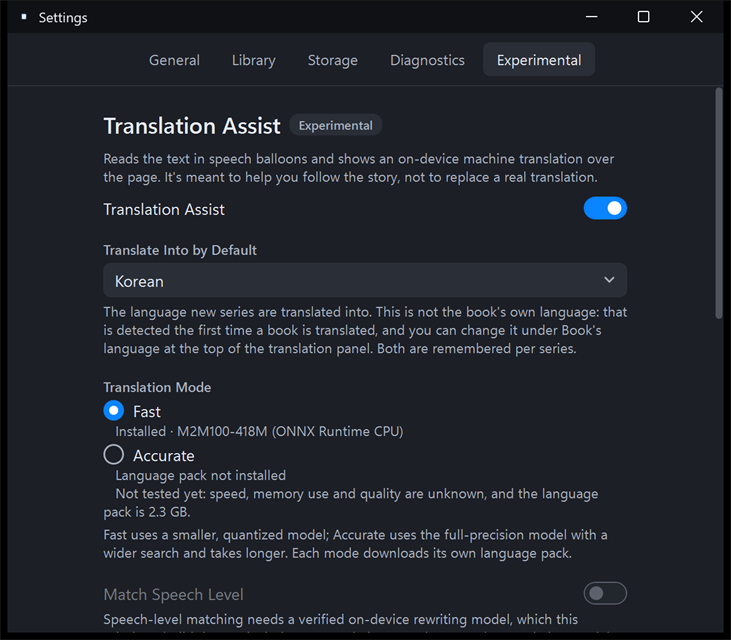
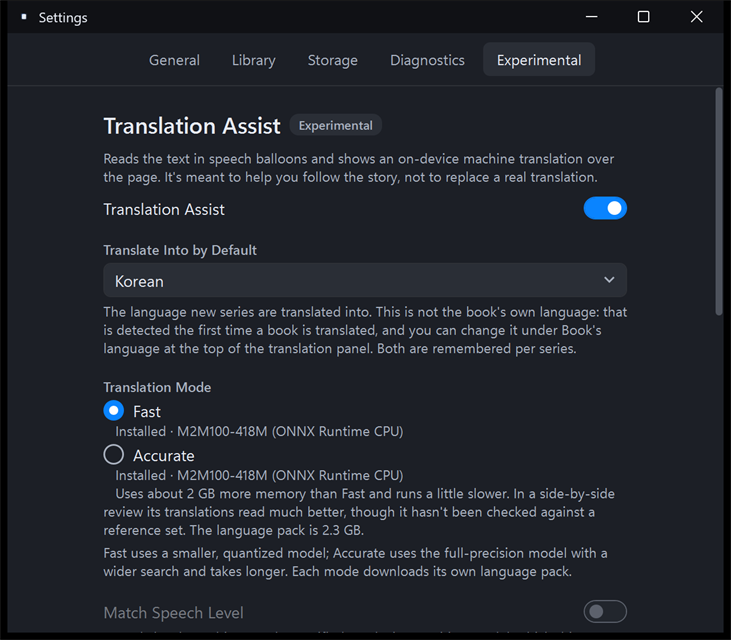
버그 패치 및 성능 측정결과 수정

Changed region(s): [[0.1204, 0.7188, 0.8427, 1.0], [0.5718, 0.9062, 0.8728, 1.0]]

diff --git a/src/Panely.Core/Translation/ModelStore.cs b/src/Panely.Core/Translation/ModelStore.cs
@@ -87,6 +87,7 @@ public sealed class ModelStore
             using var http = _httpFactory();
             long done = 0;
             var total = m.TotalBytes;
+            var reportedPercent = 0;
             foreach (var f in m.Files)
             {
                 cancellationToken.ThrowIfCancellationRequested();
@@ -110,6 +111,13 @@ public sealed class ModelStore
                         if (fileBytes > f.Bytes) throw new InvalidDataException(Loc.T("%@ is larger than its manifest says.", f.Name));
                         progress?.Report(new InstallProgress(done, total, f.Name));
                         lock (_gate) _downloading[id] = total > 0 ? done / (double)total : 0;
+                        // 설정·번역 패널이 진행률을 따라 다시 그리도록 1%가 바뀔 때마다 알린다(팩 하나에 최대 100번)
+                        var percent = total > 0 ? (int)(done * 100 / total) : 0;
+                        if (percent != reportedPercent)
+                        {
+                            reportedPercent = percent;
+                            Changed?.Invoke(this, EventArgs.Empty);
+                        }
                     }
                     await output.FlushAsync(cancellationToken).ConfigureAwait(false);
                     var hash = Convert.ToHexString(sha.GetHashAndReset());
@@ -173,25 +181,22 @@ public sealed class LanguagePackManager : ILanguagePackProvider
     {
         if (source == target || !TranslationLanguages.IsSupported(source) || !TranslationLanguages.IsSupported(target))
             return Capability.Unavailable(Loc.T("This language pair isn't supported"));
+        // 필요한 팩 중 받는 중인 것이 있으면 먼저 알린다. 번역·탐지 팩은 글자 인식 팩보다 먼저 받으므로
+        // 글자 인식 상태부터 보면 그동안 패널이 다운로드 중으로 보이지 않는다.
+        foreach (var id in RequiredPacks(source, mode))
+            if (_store.DownloadProgress(id) is { } p) return new Capability(CapabilityStatus.Downloading, null, p);
         var ocr = _recognizer.GetCapability(source);
         // 글자 인식 팩이 없으면(다운로드 필요·불가) 번역 모델이 있어도 바로 실행할 수 없다
         if (!ocr.IsReady) return ocr;
-        var pack = TranslatorPackFor(mode);
-        if (_store.DownloadProgress(pack) is { } p) return new Capability(CapabilityStatus.Downloading, null, p);
         return _translator.GetCapability(source, target, mode);
     }
 
     public IReadOnlyList<string> MissingPacks(string source, string target, TranslationMode mode)
-    {
-        var missing = new List<string>();
-        var pack = TranslatorPackFor(mode);
-        if (_store.Find(pack) is { } m && m.IsVerified && !_store.IsInstalled(m)) missing.Add(pack);
-        if (_store.Find(ModelCatalog.DetectorId) is { } d && d.IsVerified && !_store.IsInstalled(d)) missing.Add(ModelCatalog.DetectorId);
-        // 만화 OCR 팩(일본어 manga-ocr + PP-OCR, 그 외 PP-OCR). PP-OCR은 언어 감지에도 쓴다.
-        foreach (var id in ModelTextRecognizer.PacksFor(source))
-            if (_store.Find(id) is { } o && o.IsVerified && !_store.IsInstalled(o) && !missing.Contains(id)) missing.Add(id);
-        return missing;
-    }
+        => RequiredPacks(source, mode).Where(id => _store.Find(id) is { IsVerified: true } m && !_store.IsInstalled(m)).ToList();
+
+    /// <summary>번역 모델, 말풍선 탐지, 만화 OCR 팩(일본어 manga-ocr + PP-OCR, 그 외 PP-OCR) 순. PP-OCR은 언어 감지에도 쓴다.</summary>
+    private static IEnumerable<string> RequiredPacks(string source, TranslationMode mode)
+        => new[] { TranslatorPackFor(mode), ModelCatalog.DetectorId }.Concat(ModelTextRecognizer.PacksFor(source)).Distinct();
 
     public Task InstallAsync(string packId, IProgress<InstallProgress>? progress, CancellationToken cancellationToken)
         => _store.InstallAsync(packId, progress, cancellationToken);

diff --git a/tests/Panely.Tests/Translation/TranslationCoreTests.cs b/tests/Panely.Tests/Translation/TranslationCoreTests.cs
@@ -192,6 +192,63 @@ public class ModelManifestTests
         Assert.Equal("source not pinned", m.VerificationProblem());
     }
 
+    private static ModelManifest PackManifest(string id, byte[] payload) => new()
+    {
+        Id = id,
+        Revision = "abc123",
+        License = "MIT",
+        Source = "https://example.invalid/pinned/abc123",
+        Mode = "detector",
+        Files = [new ModelFile { Name = "model.onnx", Bytes = payload.Length, Sha256 = Convert.ToHexString(System.Security.Cryptography.SHA256.HashData(payload)) }],
+    };
+
+    [Fact]
+    public async Task DownloadRaisesChangedAsProgressMoves()
+    {
+        using var dir = new TempDir();
+        var payload = new byte[1 << 20];
+        new Random(7).NextBytes(payload);
+        var store = new ModelStore(dir.Path, () => new HttpClient(new StubHandler(payload)), [PackManifest("test-model", payload)]);
+        var seen = new List<double?>();
+        store.Changed += (_, _) => { lock (seen) seen.Add(store.DownloadProgress("test-model")); };
+
+        await store.InstallAsync("test-model", null, CancellationToken.None);
+
+        // 시작·끝 말고도 받는 도중에 알려야 화면의 퍼센트가 움직인다
+        Assert.Contains(seen, p => p is > 0 and < 1);
+        Assert.True(seen.Count <= 102, $"알림이 너무 잦습니다({seen.Count}).");
+        Assert.True(store.IsInstalled("test-model"));
+    }
+
+    [Fact]
+    public async Task PackCapabilityShowsDownloadWhileTranslatorPackDownloadsBeforeTextRecognition()
+    {
+        using var dir = new TempDir();
+        var payload = "translator"u8.ToArray();
+        var release = new TaskCompletionSource();
+        var store = new ModelStore(dir.Path, () => new HttpClient(new GatedHandler(payload, release.Task)), [PackManifest(ModelCatalog.TranslatorFastId, payload)]);
+        // 글자 인식 팩이 아직 없는 상태
+        var recognizer = new FakeRecognizer();
+        recognizer.Languages.Clear();
+        var packs = new LanguagePackManager(store, recognizer, new PseudoTranslator { Delay = TimeSpan.Zero });
+
+        var install = store.InstallAsync(ModelCatalog.TranslatorFastId, null, CancellationToken.None);
+        Assert.Equal(CapabilityStatus.Downloading, packs.GetCapability("en", "ko", TranslationMode.Fast).Status);
+
+        release.SetResult();
+        await install;
+        Assert.NotEqual(CapabilityStatus.Downloading, packs.GetCapability("en", "ko", TranslationMode.Fast).Status);
+    }
+
+    private sealed class GatedHandler(byte[] payload, Task gate) : HttpMessageHandler
+    {
+        protected override async Task<HttpResponseMessage> SendAsync(HttpRequestMessage request, CancellationToken cancellationToken)
+        {
+            await gate.ConfigureAwait(false);
+            return new HttpResponseMessage(System.Net.HttpStatusCode.OK) { Content = new ByteArrayContent(payload) };
+        }
+    }
+
     private sealed class StubHandler(byte[] payload) : HttpMessageHandler
     {
         protected override Task<HttpResponseMessage> SendAsync(HttpRequestMessage request, CancellationToken cancellationToken)

diff --git a/src/Panely.App/Translation/ExperimentalSettingsView.cs b/src/Panely.App/Translation/ExperimentalSettingsView.cs
@@ -81,9 +81,9 @@ internal sealed class ExperimentalSettingsView : UserControl
             var label = mode == TranslationMode.Fast ? Loc.T("Fast") : Loc.T("Accurate");
             _root.Children.Add(Gap(Ui.Radio(label, "tr-mode", settings.TranslationMode == mode, () => state.UpdateSettings(s => s.TranslationMode = mode)), 4));
             _root.Children.Add(Ui.Caption("   " + ModeCapability(mode)));
-            // Accurate(fp32)는 manifest 해시만 고정했고 내려받아 실행해 본 적이 없다(ModelManifest validation)
+            // Accurate(fp32) 실측: 메모리 약 2GB 더, 조금 느림. 나란히 비교한 평가로는 훨씬 나음(골든 세트 미검수)(ModelManifest validation, IMPLEMENTATION-STATUS)
             if (mode == TranslationMode.Accurate)
-                _root.Children.Add(Ui.Caption("   " + Loc.T("Not tested yet: speed, memory use and quality are unknown, and the language pack is 2.3 GB.")));
+                _root.Children.Add(Ui.Caption("   " + Loc.T("Uses about 2 GB more memory than Fast and runs a little slower. In a side-by-side review its translations read much better, though it hasn't been checked against a reference set. The language pack is 2.3 GB.")));
         }
         _root.Children.Add(Gap(Ui.Caption(Loc.T("Fast uses a smaller, quantized model; Accurate uses the full-precision model with a wider search and takes longer. Each mode downloads its own language pack.")), 4));
 

diff --git a/src/Panely.Core/Translation/ModelManifest.cs b/src/Panely.Core/Translation/ModelManifest.cs
@@ -137,7 +137,7 @@ public static class ModelCatalog
           ],
           "license": "MIT (facebook/m2m100_418M weights). The Xenova ONNX conversion repo states no separate license; Panely does not redistribute the files, the user downloads them from the pinned source.",
           "source": "https://huggingface.co/Xenova/m2m100_418M/resolve/9c374f0b7aca709787cea97b047bfbbd1559d177",
-          "validation": "sha256 pinned from the Hub LFS objects only. This fp32 variant has not been downloaded or run; speed, memory and quality are unverified.",
+          "validation": "sha256 pinned from the Hub LFS objects; downloaded in the app and checksum-verified on 2026-10-20. Translated a 298-page Japanese webtoon (146 balloons) ja→ko on CPU: end to end about 7 s slower than Fast and about 2.2 GB more peak memory. In the developer's side-by-side review its translations were clearly better than Fast (one reviewer, not a golden set).",
           "languages": ["ja", "zh-Hans", "zh-Hant", "ko", "en"],
           "mode": "translator-accurate",
           "input": {"encoder": "encoder_model.onnx", "decoder": "decoder_model_merged.onnx", "tokenizer": "sentencepiece.bpe.model", "vocab": "vocab.json"},

diff --git a/docs/releases/v1.0.1.md b/docs/releases/v1.0.1.md
@@ -1,0 +1,95 @@
+Patch release for Panely for Windows 1.0. It fixes language pack download progress, records measurements for the Accurate translation mode, and adds a user guide.
+
+**English** · [한국어](#한국어)
+
+## Download
+
+| File | For |
+|---|---|
+| `Panely-1.0.1-win-x64.zip` | Most Windows PCs (Intel and AMD) |
+| `Panely-1.0.1-win-arm64.zip` | Windows on ARM. **Not run on an ARM device yet** — please report what you see |
+
+Extract the ZIP to a folder and run `Panely.exe`. No installer, administrator rights or .NET install are needed. Checksums are in `SHA256SUMS.txt`.
+
+**Updating from 1.0.0**: close Panely and replace the folder's contents with this ZIP. Your library, reading positions, edits and language packs are kept.
+
+The app isn't code-signed, so SmartScreen may say "Windows protected your PC" on first launch: choose **More info › Run anyway**.
+
+## Fixed
+
+- **Language pack download progress now updates as it downloads.** In **Settings › Experimental**, the percentage only changed when you switched tabs and came back.
+- **The translation panel shows the download while every pack downloads.** On a first install, the panel looked idle while the translation and balloon-detection packs downloaded (about 770 MB), and showed the download button again.
+
+## Changed
+
+- **Accurate translation mode has been measured.** On a 298-page Japanese webtoon with 146 balloons, it took about 7 seconds longer than Fast for the whole book and used about 2 GB more memory at peak (5.8 GB vs 3.5 GB). In a side-by-side review its translations read much better than Fast. That review is one person's judgment, not a check against a reference set.
+- The Accurate note in **Settings › Experimental** now says this instead of "Not tested yet", and gives the pack size the app shows (2.3 GB).
+- The in-app download was run end to end with the Accurate pack (2.3 GB), including the checksum check.
+
+## New
+
+- **User guide** in English and Korean: [docs/manual.md](https://github.com/sejoung/PanelyWindows/blob/main/docs/manual.md) · [docs/manual.ko.md](https://github.com/sejoung/PanelyWindows/blob/main/docs/manual.ko.md). It covers installing, reading, translation, editing and exporting, settings, shortcuts and troubleshooting. The README links to it.
+- The README links to [Panely for macOS](https://github.com/sejoung/Panely).
+
+## For developers
+
+- Korean output from `dotnet` (build, test and verify logs) is no longer garbled when you run `build.cmd`, `verify.cmd`, `release.cmd`, `install-local.cmd` or `uninstall-local.cmd` in a Korean console.
+- `tools/manual-screenshots.ps1` regenerates the user guide's screenshots from a synthetic demo comic.
+
+## Known limitations
+
+- Translation is experimental. The small M2M100 model often gets short lines and idioms wrong, and quality hasn't been checked against a golden set.
+- Accurate mode needs about 2 GB more memory than Fast. If memory is tight, use Fast.
+- "Match Speech Level" isn't available on Windows yet.
+- In the AI chat window, the prompt shows a balloon count of 0 until you click **Save as Text File…**. Save the file first, then copy the prompt.
+- Not tested yet: Windows on ARM, 125/150% and mixed-DPI setups, high-contrast mode.
+- Translation jobs in progress are lost when you quit (finished pages are kept).
+
+---
+
+## 한국어
+
+Panely Windows 1.0의 패치 릴리스입니다. 언어팩 다운로드 진행률 표시를 고치고, **정확하게** 번역 방식의 측정 결과를 반영했으며, 사용 설명서를 추가했습니다.
+
+### 내려받기
+
+| 파일 | 대상 |
+|---|---|
+| `Panely-1.0.1-win-x64.zip` | 대부분의 Windows PC(Intel·AMD) |
+| `Panely-1.0.1-win-arm64.zip` | ARM 기반 Windows. **실제 ARM 기기에서는 아직 실행해 보지 않았습니다.** 실행 결과를 알려 주세요 |
+
+ZIP을 폴더에 풀고 `Panely.exe`를 실행합니다. 설치 프로그램, 관리자 권한, .NET 설치가 필요 없습니다. 체크섬은 `SHA256SUMS.txt`에 있습니다.
+
+**1.0.0에서 업데이트**: Panely를 닫고 폴더 내용을 이 ZIP으로 바꿉니다. 라이브러리, 읽던 위치, 고친 번역, 언어팩은 그대로 남습니다.
+
+코드 서명이 없어 처음 실행할 때 SmartScreen이 "Windows의 PC 보호" 창을 띄울 수 있습니다. **추가 정보 › 실행**을 누르세요.
+
+### 고친 것
+
+- **언어팩 다운로드 진행률이 받는 동안 바로 갱신됩니다.** 전에는 **설정 › 실험적 기능**에서 다른 탭에 갔다 와야 퍼센트가 바뀌었습니다.
+- **번역 패널이 모든 언어팩을 받는 동안 다운로드 중으로 표시됩니다.** 전에는 처음 설치할 때 번역·말풍선 탐지 팩(약 770MB)을 받는 동안 패널이 멈춘 것처럼 보이고, 다운로드 버튼이 다시 나타났습니다.
+
+### 바뀐 것
+
+- **정확하게 번역 방식을 측정했습니다.** 말풍선 146개인 298쪽 일본어 웹툰 기준, 책 전체가 **빠르게**보다 약 7초 더 걸렸고 최대 메모리를 약 2GB 더 썼습니다(5.8GB 대 3.5GB). 나란히 비교해 본 결과 번역은 **빠르게**보다 훨씬 나았습니다. 한 사람의 평가이며 기준 번역으로 검수한 결과는 아닙니다.
+- **설정 › 실험적 기능**의 **정확하게** 안내가 "아직 검증하지 않았습니다" 대신 위 내용을 알려 주고, 앱에 표시되는 언어팩 크기(2.3GB)로 맞췄습니다.
+- 앱 안에서 언어팩을 끝까지 내려받는 과정을 **정확하게** 팩(2.3GB)으로 체크섬 검증까지 확인했습니다.
+
+### 새로 생긴 것
+
+- **사용 설명서**(한국어·영어): [docs/manual.ko.md](https://github.com/sejoung/PanelyWindows/blob/main/docs/manual.ko.md) · [docs/manual.md](https://github.com/sejoung/PanelyWindows/blob/main/docs/manual.md). 설치, 읽기, 번역, 수정과 내보내기, 설정, 단축키, 문제 해결을 다룹니다. README에서 바로 갈 수 있습니다.
+- README에 [macOS용 Panely](https://github.com/sejoung/Panely) 링크를 추가했습니다.
+
+### 개발자용
+
+- 한국어 콘솔에서 `build.cmd`, `verify.cmd`, `release.cmd`, `install-local.cmd`, `uninstall-local.cmd`를 실행할 때 `dotnet` 출력(빌드·테스트·검증 로그)의 한글이 깨지지 않습니다.
+- `tools/manual-screenshots.ps1`로 합성 데모 만화에서 사용 설명서 스크린샷을 다시 만들 수 있습니다.
+
+### 알려진 제약
+
+- 번역은 실험 기능입니다. 작은 M2M100 모델이라 짧은 대사와 관용 표현을 자주 틀리며, 골든 세트로 품질을 검수하지 않았습니다.
+- **정확하게**는 **빠르게**보다 메모리를 약 2GB 더 씁니다. 메모리가 넉넉하지 않으면 **빠르게**를 쓰세요.
+- 말투 맞춤은 Windows에서 아직 쓸 수 없습니다.
+- AI 채팅 창의 안내문은 **텍스트 파일로 저장…**을 누르기 전에는 말풍선 수를 0으로 표시합니다. 파일을 먼저 저장한 뒤 안내문을 복사하세요.
+- 아직 확인하지 않은 환경: ARM 기반 Windows, 125/150% 및 혼합 DPI, 고대비 모드.
+- 진행 중인 번역 작업은 앱을 종료하면 사라집니다(완료한 쪽은 남습니다).

diff --git a/docs/IMPLEMENTATION-STATUS.md b/docs/IMPLEMENTATION-STATUS.md
@@ -31,7 +31,7 @@
 | LIB-05 | 마지막 폴더 복원·잊기, 시리즈별 방향/레이아웃/맞춤/번역 설정 | T, R(복원) | — |
 | SET-01 | 설정 5개 탭(일반/라이브러리/저장 공간/진단/실험적 기능) | R | — |
 | DIAG-01 | 로그 수준, 768KiB→384KiB trim, 진단 ZIP(3파일), 경로 축약, 로그 삭제 | T | — |
-| TR-01 | 기본 꺼짐, 언어팩 manifest(revision·sha256 고정), 다운로드→체크섬→설치, Fast/Accurate | T, R | 앱 안 다운로드 UI로 실제 600MB+ 다운로드는 하지 않음(같은 파일을 직접 받아 설치 폴더에 두고 확인) |
+| TR-01 | 기본 꺼짐, 언어팩 manifest(revision·sha256 고정), 다운로드→체크섬→설치, Fast/Accurate | T, R | 2026-10-20 Accurate 팩(2.3GB)을 앱 안 다운로드 UI로 받아 체크섬 검증·설치까지 확인. 나머지 팩은 같은 파일을 직접 받아 설치 폴더에 두고 확인 |
 | TR-02 | 말풍선 탐지(RT-DETR ONNX, GPU) → 일본어 manga-ocr(상자 단위, 세로쓰기 포함) / 중국어·영어·한국어 PP-OCRv5(줄 탐지+CTC), 효과음·잡음 제외, 세로 strip 밴드, 점진 표시. Windows OCR은 모델이 없을 때만 대체 | T, R(일본어 세로 웹툰·영어·한국어 페이지를 실제 모델로 인식) | 중국어 세로쓰기 실측 없음. manga-ocr도 오인식이 있음(예: "このお導きにどある") |
 | TR-03 | 원본/번역 전환, 여러 대상 언어, 시리즈 stem 일괄, 전역 1개 작업 큐·우선순위 | T | 큐는 앱 종료 시 사라짐(명세 허용, 완료 쪽 캐시는 유지) |
 | TR-04 | 배경 톤 패치, 흑풍선 흰 글씨, 풍선 팝오버 | T, R | **말투 맞춤은 미구현(사유 표시)**: 검증된 Windows 로컬 대체 모델이 없음 |
@@ -48,7 +48,7 @@
 | 일본어 OCR manga-ocr int8 (Apache-2.0) | revision·sha256 고정(comic-translate 등록값과 일치). 세평유(일본어 세로 웹툰)에서 세로 대사 인식 확인 |
 | PP-OCRv5 mobile 탐지 + ch/en/korean 인식 (Apache-2.0) | revision·sha256 고정. 영어·한국어 페이지 인식, 언어 감지(ja/en/ko 각 1건) 확인 |
 | 번역 M2M100-418M Fast (int8, KV 캐시 merged decoder) | revision·sha256 고정. 말풍선 묶음 배치 + KV 캐시로 12줄 36초 → 1.6초. 품질은 골든 세트로 검수하지 않음(예: "お兄ちゃん、" → "형제 자매,") |
-| 번역 M2M100-418M Accurate (fp32 merged decoder) | Hub LFS 해시로 고정만 함. 내려받아 실행하지 않음 |
+| 번역 M2M100-418M Accurate (fp32 merged decoder) | revision·sha256 고정. 2026-10-20 앱에서 내려받아 실행(아래 "빠르게·정확하게 비교"). 같은 원문 146개 중 115개를 Fast와 다르게 번역했고, 개발자가 두 결과를 나란히 비교한 평가로는 Accurate가 훨씬 나았음(1인 주관 평가, 골든 세트 검수 아님) |
 | 말투 보정 | 없음. 설정에 사유와 함께 비활성 표시 |
 | zh-Hans / zh-Hant | M2M100은 `zh` 하나라 간체/번체를 구분하지 않음. 모델 기반 감지도 간체로 보고함 |
 
@@ -63,6 +63,17 @@
 | M2M100 int8 번역 | 세션 생성 중 네이티브 충돌(0xC0000005) | 1.6초(KV 캐시·배치) | CPU |
 
 분석(탐지+OCR)과 번역은 겹쳐 돌고, 번역기에는 여러 쪽의 풍선이 8개씩 묶여 들어갑니다([ADR 0003](adr/0003-translation-pipeline.md)). 세평유 60쪽은 strip 범위 22.2초, 쪽 범위 29.1초입니다. `PANELY_ORT_DEVICE=cpu`로 GPU를 끌 수 있습니다. GPU는 DirectX 12 GPU면 제조사와 상관없이 DirectML로 쓰고, 실패하면 CPU로 돌아갑니다. 앱에 재배포용 `DirectML.dll` 1.15.4를 함께 넣습니다.
+
+### 빠르게·정확하게 비교(2026-10-20, 1회 측정)
+
+세평유 298쪽(세로 웹툰, 일본어 → 한국어, 세로 스크롤 strip 범위, 말풍선 146개)을 새 데이터 폴더에서 처음부터 번역했습니다. 시간은 앱 실행부터 298쪽이 모두 완료될 때까지이며, 탐지·OCR·번역과 세션 생성을 모두 포함합니다. PC는 Intel Core i7-13700K, RAM 64GB, NVIDIA GeForce RTX 4070 Ti SUPER(탐지는 DirectML, 번역은 CPU)입니다.
+
+| 모드 | 전체 시간 | 첫 번역 표시 | 최대 작업 집합 | 최대 개인 메모리 |
+|---|---|---|---|---|
+| Fast (int8) | 83.0초 | 10.6초 | 3.5GB | 5.2GB |
+| Accurate (fp32) | 90.2초 | 13.6초 | 5.8GB | 7.4GB |
+
+말풍선이 적은 책이라 시간 대부분은 탐지·OCR이 차지하고, 번역 모델 차이는 약 7초입니다. 말풍선이 많은 책에서는 차이가 더 벌어질 수 있습니다. Accurate는 메모리를 약 2.2GB 더 씁니다. 원문 인식 결과는 두 모드가 같았고(146개 모두 동일), 번역은 115개가 달랐습니다. 개발자가 두 결과를 나란히 비교한 평가로는 Accurate가 훨씬 나았습니다. 한 사람의 주관 평가이며 골든 세트로 검수한 결과는 아닙니다.
 
 ## 알려진 차이·개선 후보
 

diff --git a/docs/manual.ko.md b/docs/manual.ko.md
@@ -371,7 +371,7 @@ Panely는 한 번에 한 창만 띄웁니다. 이미 실행 중일 때 탐색기
 이 탭의 다른 항목은 다음과 같습니다.
 
 - **기본 번역 언어**: 새 시리즈를 어느 언어로 번역할지 고릅니다. 시리즈마다 따로 바꿀 수 있습니다.
-- **번역 방식**: **빠르게**와 **정확하게** 중 고릅니다. **정확하게**는 아직 검증하지 않았으므로 **빠르게**를 쓰세요(아래 참고).
+- **번역 방식**: **빠르게**와 **정확하게** 중 고릅니다. **정확하게**는 메모리를 약 2GB 더 쓰고 조금 느리지만, 나란히 비교해 본 결과 번역이 훨씬 나았습니다. 메모리에 여유가 있으면 **정확하게**를 써 보세요(아래 참고).
 - **말투 맞추기**: 현재 Windows 빌드에서는 쓸 수 없어 비활성화되어 있습니다.
 
 ### 2단계: 언어팩 내려받기
@@ -667,7 +667,6 @@ Panely는 한 번에 한 창만 띄웁니다. 이미 실행 중일 때 탐색기
 | 앱 폴더를 옮긴 뒤 "Panely로 열기"가 동작하지 않습니다 | **설정 › 일반**에서 **파일 탐색기에 추가**를 다시 누르세요. |
 | 번역 버튼이 보이지 않습니다 | **설정 › 실험적 기능 › 번역 보조**를 켜세요. |
 | "책의 언어를 알아내지 못했습니다." | 번역 패널 맨 위 **원문 언어**에서 언어를 직접 고르세요. |
-| 언어팩 다운로드 진행률이 멈춘 것처럼 보입니다 | 진행률이 언어팩 단위로 갱신되므로, 큰 팩(번역 600MB, 2.3GB)을 받는 동안에는 바뀌지 않을 수 있습니다. 기다려 주세요. |
 | GPU 때문에 번역이 실패하거나 앱이 불안정합니다 | GPU를 끄고 CPU만 쓰도록 환경 변수를 설정한 뒤 Panely를 다시 실행하세요. `setx PANELY_ORT_DEVICE cpu` |
 
 문제를 신고할 때는 **파일 › 진단 리포트 내보내기…**로 만든 ZIP을 첨부해 주세요. [새 이슈 등록하기](https://github.com/sejoung/PanelyWindows/issues/new)
@@ -679,13 +678,13 @@ Panely는 한 번에 한 창만 띄웁니다. 이미 실행 중일 때 탐색기
 **번역**
 
 - 번역 품질은 작은 M2M100 모델의 한계가 있습니다. 짧은 대사와 관용 표현을 자주 틀리며, 기준 번역(골든 세트)으로 품질을 검수하지 않았습니다. manga-ocr도 글자를 잘못 읽을 때가 있습니다.
-- **정확하게** 번역 방식(fp32, 언어팩 2.3GB)은 고정된 체크섬만 있고, 실제로 내려받아 실행해 본 적이 없습니다. 속도·메모리·품질을 알 수 없으니 **빠르게**를 쓰세요.
+- **정확하게** 번역 방식(fp32, 언어팩 2.3GB)은 말풍선 146개인 298쪽 웹툰으로 한 번 측정했습니다. 책 전체 기준 **빠르게**보다 약 7초 느렸고, 최대 메모리를 약 2GB 더 썼습니다(5.8GB 대 3.5GB). 146개 중 115개를 **빠르게**와 다르게 번역했고, 개발자가 나란히 비교해 본 평가로는 번역이 훨씬 나았습니다. 한 사람의 평가이며 기준 번역으로 검수한 결과는 아닙니다. 메모리가 넉넉하지 않으면 **빠르게**를 쓰세요.
 - **말투 맞추기**는 Windows 빌드에 아직 없습니다.
 - 중국어는 간체와 번체를 구분하지 않습니다(M2M100은 중국어가 하나). 중국어 세로쓰기는 측정하지 않았습니다.
 - 글자가 상자를 거의 꽉 채운 내레이션 상자는 번역 패치가 반투명하게 그려져 원문이 희미하게 비칠 수 있습니다.
 - 진행 중인 번역 작업은 앱을 종료하면 사라집니다. 번역을 마친 페이지는 남습니다.
 - 언어팩 다운로드는 취소할 수 없고, 앱 안에 언어팩 삭제 기능이 없습니다.
-- 앱 안에서 600MB 이상 언어팩을 끝까지 내려받는 과정은 실제로 해 보지 않았습니다. 같은 파일을 직접 받아 설치 폴더에 두고 확인했습니다.
+- 앱 안에서 끝까지 내려받는 과정은 **정확하게** 언어팩(2.3GB)으로 확인했습니다. 나머지 팩은 같은 파일을 직접 받아 설치 폴더에 두고 확인했습니다.
 - 말풍선 편집의 개별 동작(끌어서 추가 등)과 AI 채팅 창은 모든 조작을 손으로 확인하지는 않았습니다.
 - AI 채팅 창의 안내문은 **텍스트 파일로 저장…**을 누르기 전에는 말풍선 수를 0으로 표시합니다. 파일을 먼저 저장한 뒤 안내문을 복사하세요.
 - 시리즈 자동 번역과 시리즈 전체 번역은 압축 파일 안의 압축 파일로 된 권을 건너뜁니다. 이런 책은 다른 책을 열면 번역이 일시정지됩니다.

diff --git a/docs/manual.md b/docs/manual.md
@@ -371,7 +371,7 @@ Open **File › Settings…** (`Ctrl+,`). On the **Experimental** tab, turn on t
 The other settings on this tab:
 
 - **Translate Into by Default**: the language new series are translated into. You can change it for each series.
-- **Translation Mode**: **Fast** or **Accurate**. **Accurate** hasn't been tested yet, so use **Fast** (see below).
+- **Translation Mode**: **Fast** or **Accurate**. **Accurate** uses about 2 GB more memory and runs a little slower, but its translations read much better in a side-by-side review. If your PC has the memory to spare, try **Accurate** (see below).
 - **Match Speech Level**: not available in this Windows build, so it's greyed out.
 
 ### Step 2: Download the language packs
@@ -666,7 +666,6 @@ Hover over a menu item or toolbar button to see its shortcut. Number keys are th
 | "Open with Panely" stopped working after moving the app folder | Click **Add to File Explorer** again in **Settings › General**. |
 | No translation button | Turn on **Settings › Experimental › Translation Assist**. |
 | "Couldn't tell which language this book is in." | Choose the language yourself under **Book's language** at the top of the translation panel. |
-| Language pack download progress seems stuck | Progress updates per pack, so it may not move while a large pack (608.6 MB or 2.3 GB) downloads. Please wait. |
 | Translation fails or the app is unstable because of the GPU | Make Panely use the CPU only by setting this environment variable, then start Panely again: `setx PANELY_ORT_DEVICE cpu` |
 
 When you report a problem, please attach a ZIP from **File › Export Diagnostic Report…**. [Open a new issue](https://github.com/sejoung/PanelyWindows/issues/new)
@@ -678,13 +677,13 @@ These come from this release and the [implementation status](IMPLEMENTATION-STAT
 **Translation**
 
 - Quality is limited by the small M2M100 model. Short lines and idioms are often wrong, and quality hasn't been checked against a reference (golden) set. manga-ocr also misreads text sometimes.
-- **Accurate** mode (fp32, 2.3 GB language pack) has pinned checksums but has never actually been downloaded and run. Its speed, memory use and quality are unknown, so use **Fast**.
+- **Accurate** mode (fp32, 2.3 GB language pack) was measured once on a 298-page webtoon with 146 balloons: about 7 seconds slower than **Fast** for the whole book, and about 2 GB more memory at peak (5.8 GB vs 3.5 GB). It translated 115 of the 146 balloons differently from **Fast**, and in the developer's side-by-side review its translations were much better. That's one person's judgment, not a check against a reference set. If memory is tight, use **Fast**.
 - **Match Speech Level** isn't in the Windows build yet.
 - Chinese Simplified and Traditional aren't told apart (M2M100 has a single Chinese). Vertical Chinese text hasn't been measured.
 - In narration boxes that the text nearly fills, the translation patch may be drawn semi-transparent, so the original faintly shows through.
 - Translation jobs in progress are lost when you quit. Finished pages are kept.
 - Language pack downloads can't be cancelled, and the app can't delete a language pack.
-- A full in-app download of the 600 MB+ packs hasn't been run end to end. It was checked by downloading the same files directly into the install folder.
+- In-app download has been run end to end for the **Accurate** pack (2.3 GB). The other packs were checked by downloading the same files directly into the install folder.
 - Not every action in Edit Balloons (such as drag-to-add) and in the AI chat window has been checked by hand.
 - Until you click **Save as Text File…**, the AI chat prompt shows a balloon count of 0. Save the file first, then copy the prompt.
 - Series auto-translate and Translate Entire Series skip volumes that are archives inside an archive. For such a book, translation pauses when you open another book.

diff --git a/README.ko.md b/README.ko.md
@@ -65,12 +65,12 @@ Mac을 쓰시나요? [macOS용 Panely](https://github.com/sejoung/Panely)를 보
 | 일본어 글자 인식 | [manga-ocr](https://huggingface.co/ogkalu/manga-ocr-onnx) (int8) | 약 117MB | CPU |
 | 중국어·영어·한국어 글자 인식, 언어 감지, 글자 줄 찾기 | [PP-OCRv5 mobile](https://huggingface.co/ogkalu/ppocr-v5-onnx) | 약 43MB | 줄 찾기는 GPU, 읽기는 CPU |
 | 번역 — 빠름 | [M2M100-418M](https://huggingface.co/Xenova/m2m100_418M) (int8) | 약 640MB | CPU |
-| 번역 — 정확(미검증) | M2M100-418M (fp32) | 약 2.5GB | CPU |
+| 번역 — 정확 | M2M100-418M (fp32) | 약 2.5GB | CPU |
 
 장치 배분은 실측 결과입니다. 말풍선 탐지와 글자 줄 찾기는 GPU가 빠르고, 글자 읽기와 번역 모델은 CPU가 더 빠릅니다. 글자 읽기와 번역은 함께 돌고, 번역기에는 여러 쪽의 말풍선이 한꺼번에 들어갑니다. `PANELY_ORT_DEVICE=cpu`로 GPU를 완전히 끌 수 있습니다.
 
 > [!NOTE]
-> 번역 품질은 작은 M2M100 모델의 한계가 있습니다. 짧은 대사와 관용 표현은 자주 틀리며, 위 예시에도 틀린 말풍선이 있습니다. 모델이 번역하지 못한 말풍선은 원문을 그대로 보여 주며, 말풍선 편집에서 어떤 말풍선이든 직접 고칠 수 있습니다.
+> 번역 품질은 작은 M2M100 모델의 한계가 있습니다. 짧은 대사와 관용 표현은 자주 틀리며, 위 예시에도 틀린 말풍선이 있습니다. 모델이 번역하지 못한 말풍선은 원문을 그대로 보여 주며, 말풍선 편집에서 어떤 말풍선이든 직접 고칠 수 있습니다. 정확 모드는 메모리를 약 2GB 더 쓰지만, 나란히 비교해 본 결과 번역이 훨씬 나았습니다.
 
 ## 시작하기
 

diff --git a/README.md b/README.md
@@ -65,12 +65,12 @@ Panely can find speech balloons, read the text and draw a translation over the p
 | Japanese text | [manga-ocr](https://huggingface.co/ogkalu/manga-ocr-onnx) (int8) | ~117 MB | CPU |
 | Chinese / English / Korean text, language detection, line finding | [PP-OCRv5 mobile](https://huggingface.co/ogkalu/ppocr-v5-onnx) | ~43 MB | Line finding on GPU, reading on CPU |
 | Translation — Fast | [M2M100-418M](https://huggingface.co/Xenova/m2m100_418M) (int8) | ~640 MB | CPU |
-| Translation — Accurate (untested) | M2M100-418M (fp32) | ~2.5 GB | CPU |
+| Translation — Accurate | M2M100-418M (fp32) | ~2.5 GB | CPU |
 
 The device split comes from measurements: balloon detection and text-line finding are faster on the GPU, while the text-reading and translation models are faster on the CPU. Reading and translation run at the same time, and balloons from several pages go to the translator together. Set `PANELY_ORT_DEVICE=cpu` to turn off the GPU entirely.
 
 > [!NOTE]
-> Translation quality is limited by the small M2M100 model. Short lines and idioms are often wrong, as some balloons in the example above show. Balloons the model can't translate keep their original text, and you can correct any balloon in Edit Balloons.
+> Translation quality is limited by the small M2M100 model. Short lines and idioms are often wrong, as some balloons in the example above show. Balloons the model can't translate keep their original text, and you can correct any balloon in Edit Balloons. The Accurate mode needs about 2 GB more memory but read much better in a side-by-side comparison.
 
 ## Getting started
 
